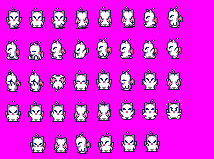
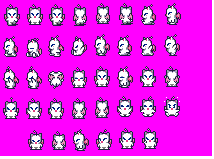
Pruebas - commiteo para seguir desde el trabajo

diff --git a/Crafty/Plataforma.js b/Crafty/Plataforma.js
@@ -7,11 +7,10 @@ function start(){
 	c = Crafty.init(WIDTH, HEIGHT);
 	Crafty.Canvas;
 	
-	Crafty.sprite(16, "kupo.png", {
-    	kupo: [0,0],
+	Crafty.sprite(16, "images/example.png", {
+    	Kupo: [0,3],
   	});
-  	
-  	     
+  	  	     
   	// Scenes lists: Loading, Game	
   	Crafty.scene("loading", function() {
     	Crafty.load(["kupo.png"], function() {
@@ -21,13 +20,18 @@ function start(){
     	// Black background with some loading text
     	Crafty.background("gray");
     	Crafty.e("2D, DOM, Text").attr({w: 100, h: 20, x: 150, y: 120})
-      		  .text("Loading")
-      		  .css({"text-align": "center"});
+      		  .text("Cargando...")
   	});
   	
 	Crafty.scene("game", function(){
         //Crafty.viewport.x = 100;
         //Crafty.viewport.y = 100;
+        Crafty.e("2D, DOM, Solid, Color, Ground, Collision")
+        	  .attr({x: 10, 
+			   		 y: 160,
+			   		 w: 10,
+			   		 h: 12})
+			  .color("white");
 
 		CreateLevel(level)
 	});
@@ -43,26 +47,73 @@ function CreateLevel (level) {
 	createPlayer();  
 }
 
+
+
 // Dibuja el piso. Tiene el tamaño del nivel, es importante para la gravedad del personaje
 function drawFloor(){
 	var size = 5
+	
+	// Suelo
 	Crafty.e("2D, DOM, Color, Ground")
 		  .attr({x: 0, 
 				 y: HEIGHT - size, 
 			     w: WIDTH,
 			     h: size})
 		  .color("black");
+		  
+    // Paredes
+	Crafty.e("2D, DOM, Color, Ground")
+		  .attr({x: WIDTH - size, 
+				 y: 0, 
+			     w: size,
+			     h: HEIGHT})
+		  .color("black");
+
 };
+
 
 // Creacion del Jugador
 // Lo realiza sólo una vez
 function createPlayer(){
-	size = 15;
-	Crafty.e("2D, DOM, Twoway, Gravity, Color, SpriteAnimation") 
-		  .attr({x: 10,	y: 10, w: size, h: size})
-		  .color("white")	
+	size = 16;
+	Crafty.e("2D, DOM, Twoway, Gravity, Keyboard, Kupo, SpriteAnimation") 
+		  .attr({x: 10,	y: 10, z: 1, w: size, h: size})
+		  //.color("white")	
 		  .gravity("Ground")
-    	  .twoway(2,4)
+    	  .twoway(3,4)
+    	  .animate("nada", 9, 3, 11)
+          
+          .bind("enterframe", function() {
+              if (!this.isPlaying())
+                this.animate("nada", 80);
+            });
+          
+          
+		  //.CustomControls(1)
+		  /*.animate("left", 5, 1, 8)
+		  
+		  .animate("jump", 1, 1, 4)
+		  .bind("enterframe", function(e) {
+    	  		if (this.__move.left) {
+      				if (!this.isPlaying("left"))
+        				this.stop().animate("left", 10);
+    				}
+    			if (this.__move.right) {
+      				if (!this.isPlaying("right"))
+        				this.stop().animate("right", 10);
+    				}
+    			if (this.__move.up) {
+      				if (!this.isPlaying("jump"))
+        				this.stop().animate("jump", 10);
+    				}
+    			if (this.__move.down) {
+      				if (!this.isPlaying("down"))
+        				this.stop().animate("down", 10);
+    				}
+  		  }).bind("keyup", function(e) {
+    			this.stop();
+  		  });
+*/
 };
 
 
@@ -110,4 +161,58 @@ Crafty.c('CustomControls', {
       return this;
     }
   });
+  
+Crafty.c("TrackView", {
+		_buffer: 64,
+		_target: {x: 0, y:0},
+		init: function(){
+			this._target.x = Crafty.viewport.x;
+			this._target.y = Crafty.viewport.y;
+			this.bind("enterframe",function(){
+				screenx = (this.x + (this._w / 2)) + Crafty.viewport.x;
+				screeny = (this.y + (this._h / 2)) + Crafty.viewport.y;
+				if (screenx < this._buffer){
+					Crafty.viewport.x += this._speed;
+				} else if (screenx > (Crafty.viewport.width - this._buffer)) {
+					Crafty.viewport.x -= this._speed;
+				}
+				if (screeny < this._buffer){
+					Crafty.viewport.y += this._speed;
+				} else if (screeny > (Crafty.viewport.height - this._buffer)) {
+					Crafty.viewport.y -= this._speed;
+				}
+			});
+		},	
+	  });
+	  Crafty.c("View", {
+		init: function(){
+			this.addComponent("2D");
+			this.addComponent("Canvas");
+			this._tx = 0;
+			this._ty = 0;
+			if(Crafty.support.setter) {
+				this.__defineSetter__('tx', function(v) { this._set_tx(v); });
+				this.__defineGetter__('tx', function() { return this._tx; });
+				this.__defineSetter__('ty', function(v) { this._set_ty(v); });
+				this.__defineGetter__('ty', function() { return this._ty; });
+			}
+		},
+		_set_tx: function(v){
+			this._tx = v;
+			this.x = (this._tx + (Crafty.viewport.width/2)) - (this._w / 2);
+		},
+		_set_ty: function(v){
+			this._ty = v;
+			this.y = ((-this._ty + (Crafty.viewport.height/2))) - (this._h / 2);
+		},
+		t: function(x, y){
+			if (typeof x === "object"){
+				y = x.y;
+				x = x.x;
+			}
+			this.tx = x;
+			this.ty = y;
+			return this;
+		},
+	  })  
 

diff --git a/Crafty/Plataforma.html b/Crafty/Plataforma.html
@@ -2,7 +2,7 @@
   <head>
     <title>Plataforma | HTML5</title>
   </head>
-  <script type="text/javascript" src="http://cdn.crafty-modules.com/crafty-DEBUG.js"></script>
+   <script type="text/javascript" src="http://cdn.crafty-modules.com/crafty-DEBUG.js"></script>
   <script type="text/javascript" src="Plataforma.js"></script>
   <style>
     body, html { margin:0; padding: 0; overflow:hidden; font-family:Arial; font-size:20px }
